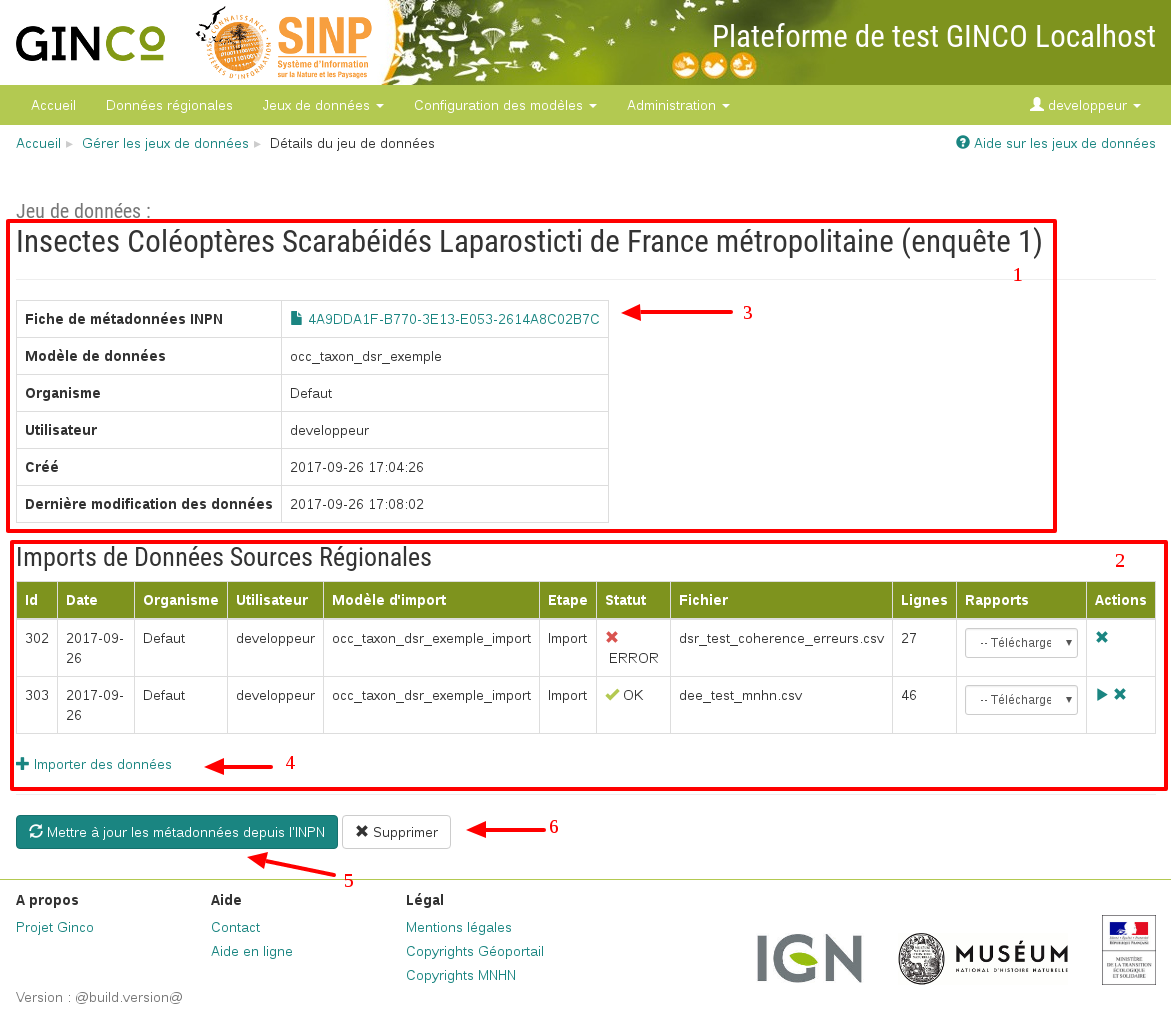
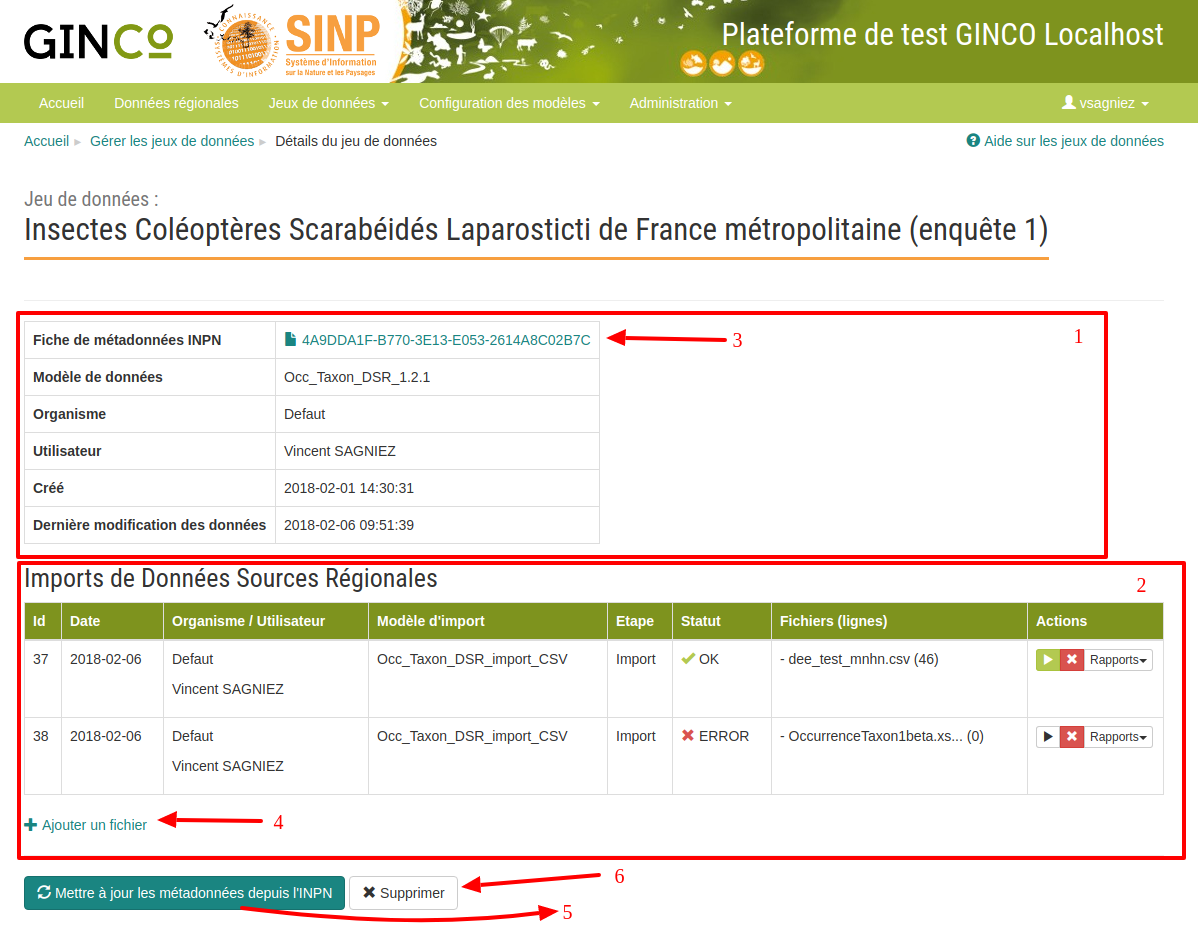
#1384:Update Documentation

Changed region(s): [[0.0, 0.1869, 1.0, 0.9968], [0.0, 0.0, 1.0, 0.1557]]

diff --git a/documentation/user/source/gestion-jdd/gerer-les-jeux-de-donnees.rst b/documentation/user/source/gestion-jdd/gerer-les-jeux-de-donnees.rst
@@ -31,7 +31,7 @@ L’import de données ce fait au sein d’un jeu de données déclaré dans le 
 
 .. image:: ../images/gestion-jdd/nouveau-jdd-1.png
 
-Cliquez sur le lien "Importer des données" du jeu de données auquel vous souhaitez ajouter des données.
+Cliquez sur le lien "Ajouter un fichier" du jeu de données auquel vous souhaitez ajouter des données.
 
 .. image:: ../images/gestion-jdd/nouveau-jdd-2.png
 
@@ -49,6 +49,7 @@ provenant d'autres organismes que le sien. Il faut pour cela avoir au préalable
 .. image:: ../images/gestion-jdd/nouveau-jdd-3.png
 
 Vous devez enfin uploader votre ou vos fichiers csv (**1**). Ceux-ci doivent peser *moins de 150 Mo*.
+Vous pouvez également uploader votre ou vos fichiers au format shapefile (voir :ref:`fichier_import_shapefile`).
 
 Vous pouvez télécharger un fichier d'exemple (**2**) pour chaque fichier demandé, contenant :
 
